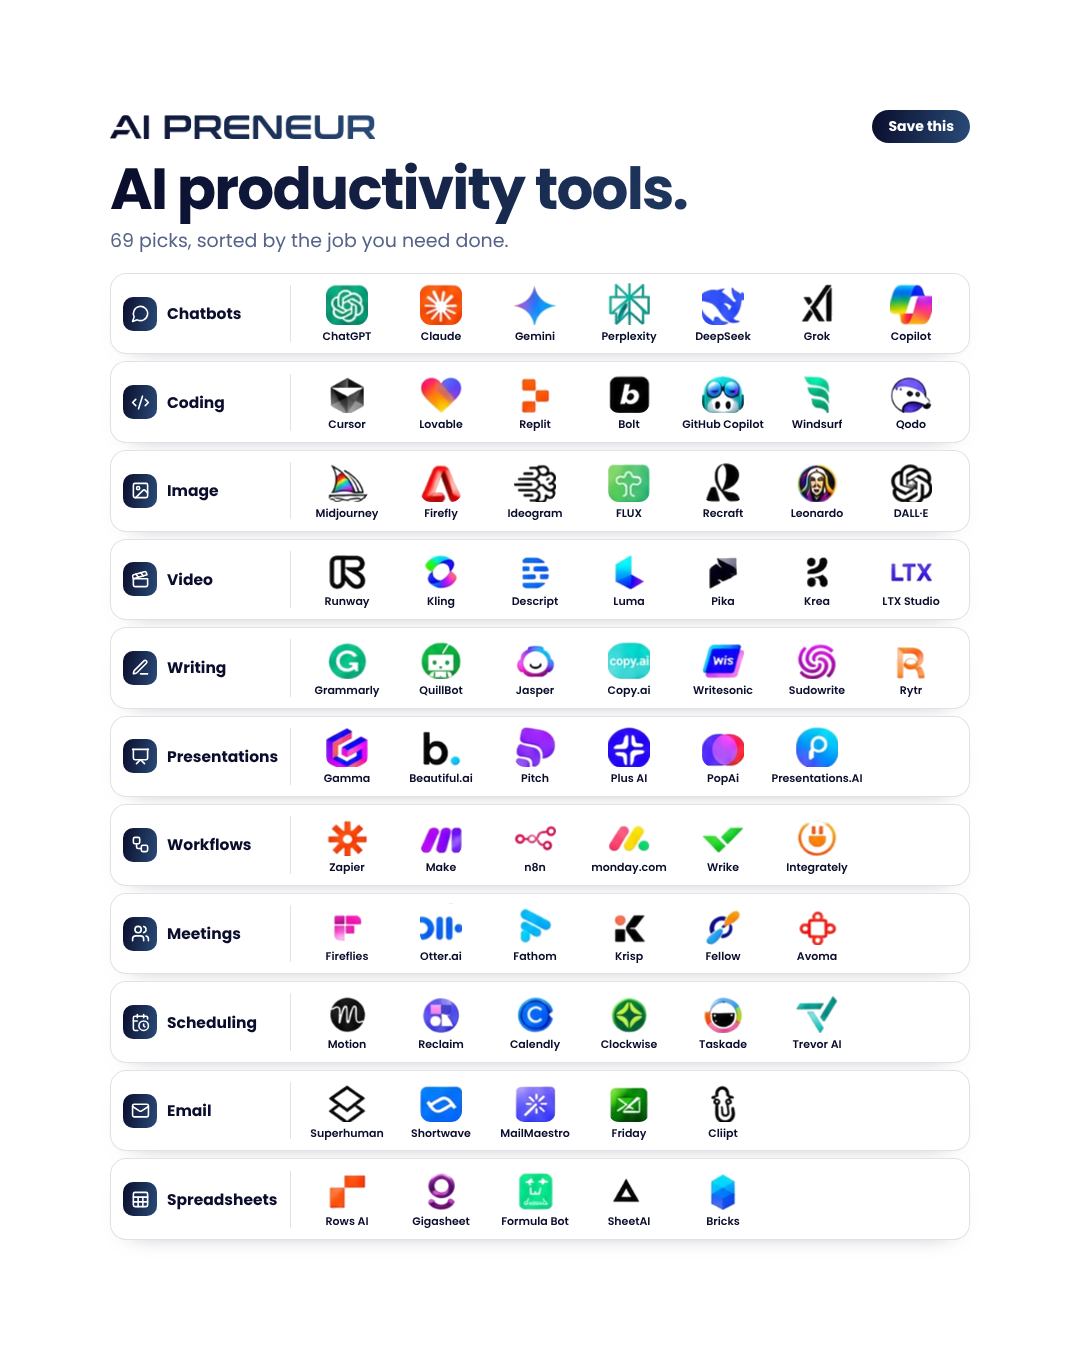
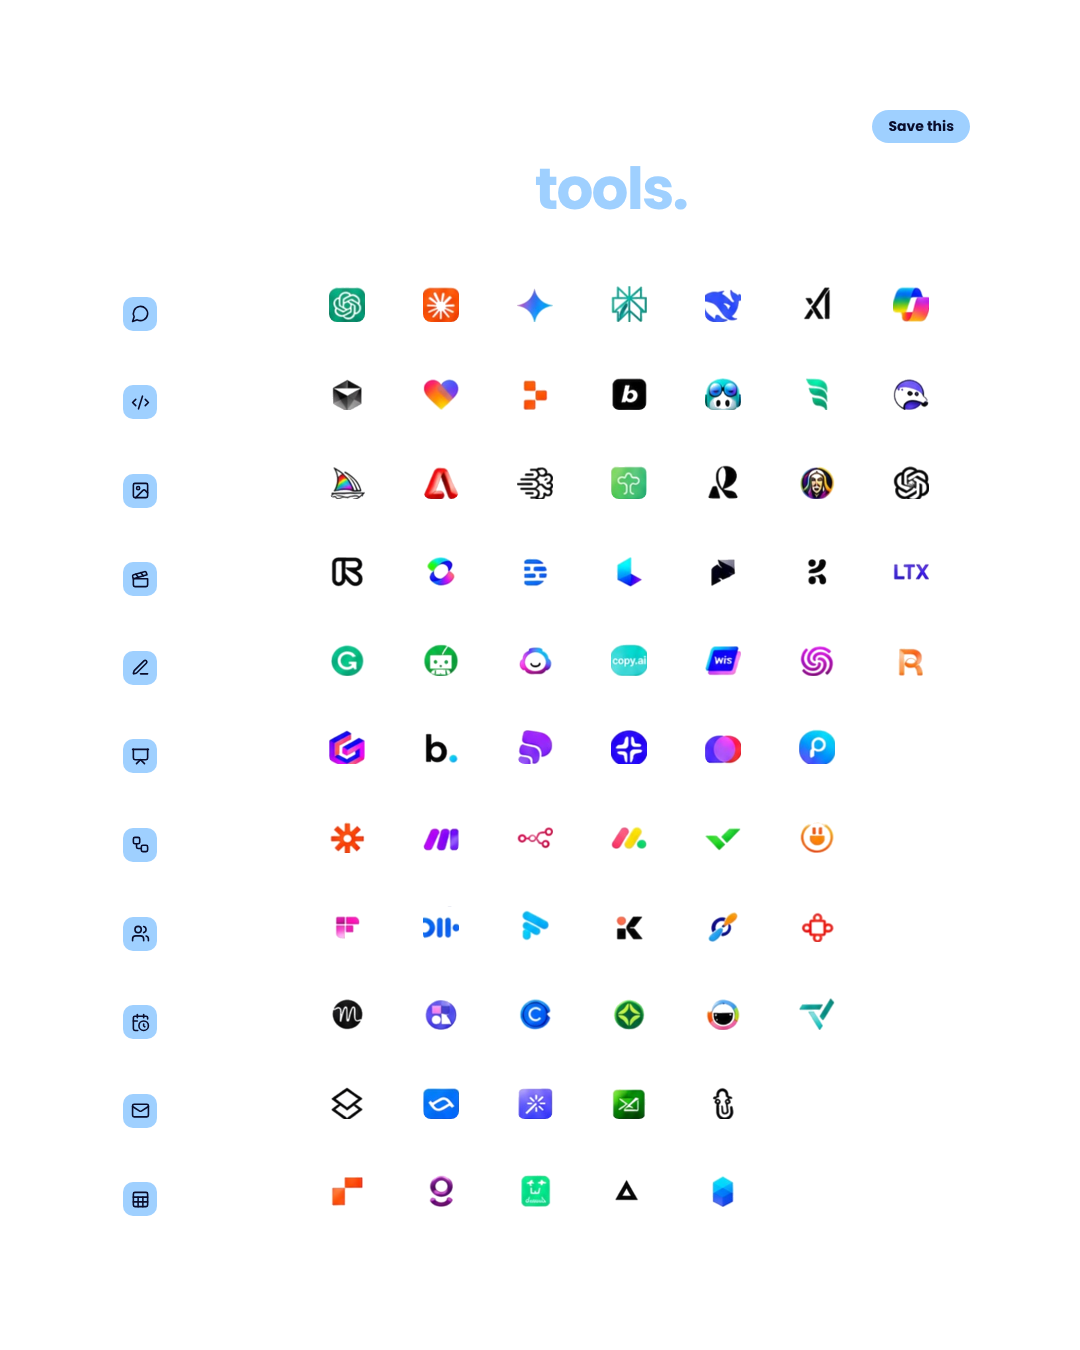
AI productivity tools: white + light-blue type on transparent background
Claude-Session: https://claude.ai/code/session_01FYKeHLx1qY2bAhSHR89JeA

diff --git a/projects/ai-productivity-tools/render.js b/projects/ai-productivity-tools/render.js
@@ -1,9 +1,10 @@
-// Renders .slide to out/ as transparent PNG (no background) plus a white preview.
+// Transparent PNG (no background) + preview on the navy AIpreneur background.
 const { chromium } = require('playwright'); const path = require('path');
 (async () => { const b = await chromium.launch(); const p = await b.newPage({ viewport: { width: 1080, height: 1350 } });
   await p.goto('file://' + path.join(__dirname, 'carousel.html')); await p.evaluate(() => document.fonts.ready); await p.waitForTimeout(300);
   const s = await p.$('.slide');
   await s.screenshot({ path: path.join(__dirname, 'out', 'slide-01_transparent.png'), omitBackground: true });
-  await p.evaluate(() => document.body.style.background = '#fff');
-  await s.screenshot({ path: path.join(__dirname, 'out', 'slide-01_preview-white.png') });
+  await p.evaluate(() => { document.body.style.background = 'url(assets/bg.png) center/cover'; });
+  await p.waitForTimeout(200);
+  await s.screenshot({ path: path.join(__dirname, 'out', 'slide-01_preview-navy.png') });
   await b.close(); })();

diff --git a/projects/ai-productivity-tools/style.css b/projects/ai-productivity-tools/style.css
@@ -21,3 +21,14 @@ h1 span{font-size:.62em;letter-spacing:-.6px}
 .t img{width:42px;height:42px;border-radius:11px}
 .t span{font-size:11px;font-weight:600;white-space:nowrap;max-width:100%;overflow:hidden;text-overflow:ellipsis}
 h1{font-size:58px}.sub{margin-top:2px;font-size:19px;color:var(--dim)}.rows{margin-top:18px}
+/* navy-theme type on transparent */
+html,body{color:#fff}
+h1{background:none;-webkit-background-clip:border-box;background-clip:border-box;color:#fff}
+h1 span{font-size:1em;letter-spacing:inherit;color:#9fd0ff}
+.sub{color:rgba(255,255,255,.75)}
+.cnt{background:#9fd0ff;color:#0a0d2c}
+.r{background:rgba(255,255,255,.08);border:1.5px solid rgba(255,255,255,.18);box-shadow:none}
+.c{border-right-color:rgba(255,255,255,.18)}
+.ci{background:#9fd0ff;color:#0a0d2c}
+.c b,.t span{color:#fff}
+.t img{background:#fff;padding:3px;box-shadow:0 0 0 1px rgba(255,255,255,.4)}

diff --git a/projects/ai-productivity-tools/build.py b/projects/ai-productivity-tools/build.py
@@ -23,7 +23,7 @@ rows = "".join(f'''<div class="r"><div class="c"><span class="ci">{L(ic)}</span>
  <div class="ts">{"".join(f'<div class="t"><img src="assets/apps/{f}.png" alt=""><span>{n}</span></div>' for f, n in tools)}</div></div>''' for ic, name, tools in C)
 CSS = (D / "style.css").read_text()
 (D / "carousel.html").write_text(f'''<!doctype html><html lang="en"><head><meta charset="utf-8"><title>AI Productivity Tools</title><style>{CSS}</style></head><body>
-<section class="slide"><div class="hd"><img class="logo" src="assets/logo_navy.png" alt="AIpreneur"><span class="cnt">Save this</span></div>
- <h1>AI productivity tools.</h1><p class="sub">{n_tools} picks, sorted by the job you need done.</p>
+<section class="slide"><div class="hd"><img class="logo" src="assets/logo_white.png" alt="AIpreneur"><span class="cnt">Save this</span></div>
+ <h1>AI productivity <span>tools.</span></h1><p class="sub">{n_tools} picks, sorted by the job you need done.</p>
  <div class="rows">{rows}</div></section></body></html>''')
 print("ok", n_tools)
